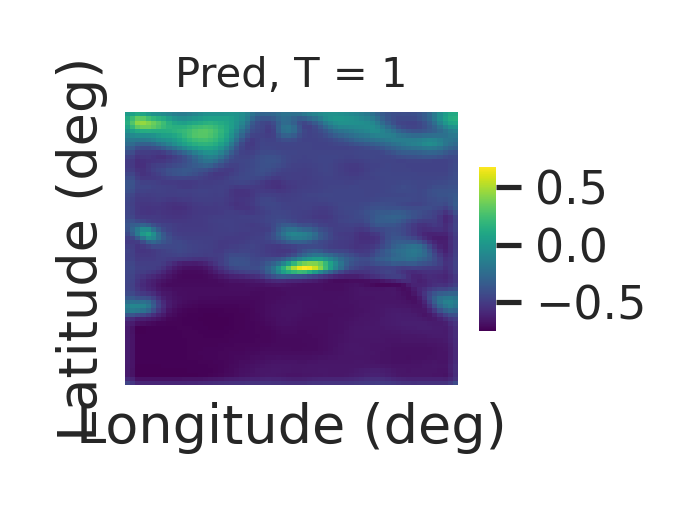
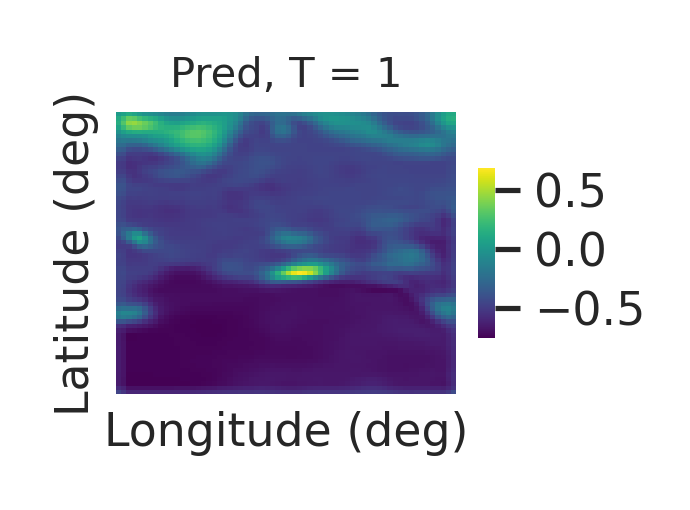
generated plots

diff --git a/plot.py b/plot.py
@@ -50,8 +50,8 @@ def plot_heatmap(data, title, filename, vmin=None, vmax=None):
     ax = sns.heatmap(data, cmap="viridis", cbar_kws={
         "orientation": "vertical", "shrink": 0.6, "aspect": 10})
     ax.set_title(title, fontsize=10)
-    ax.set_xlabel("Longitude (deg)", fontsize=13)
-    ax.set_ylabel("Latitude (deg)", fontsize=13)
+    ax.set_xlabel("Longitude (deg)", fontsize=11)
+    ax.set_ylabel("Latitude (deg)", fontsize=11)
     ax.set_xticks([])
     ax.set_yticks([])
     plt.tight_layout()

diff --git a/README.md b/README.md
@@ -75,7 +75,7 @@ Below are example plots of the true and predicted outputs at a specific time ste
 ## 📝 Citation / Reference
 
 **Spatio-temporal DeepKriging (STDK)** model is used to generate the simulated datasets .
-A small simulated dataset is included for demonstration. For scientific use, please cite the corresponding paper [*(Space-Time.DeepKriging)*.](https://www.sciencedirect.com/science/article/abs/pii/S2211675323000489)
+A small simulated dataset is included for demonstration. For citation check [*(Space-Time.DeepKriging)*.](https://www.sciencedirect.com/science/article/abs/pii/S2211675323000489)
 
 ---
 
